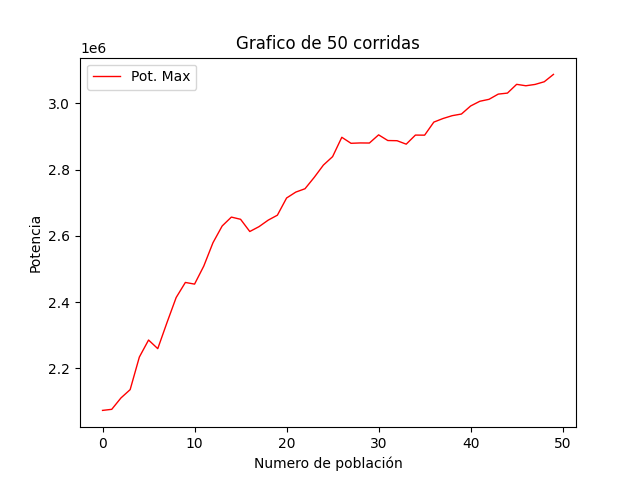
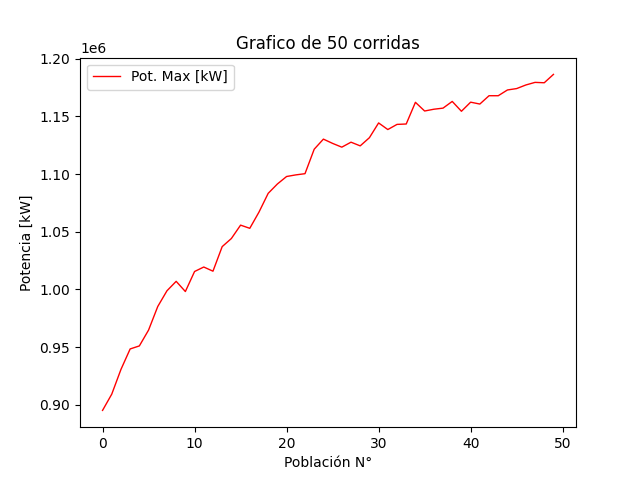
Modificaciones de parametros del AG

diff --git a/Trabajo Practico Integrador/Testeo.py b/Trabajo Practico Integrador/Testeo.py
@@ -41,11 +41,11 @@ for fila in arr:
 #-------Calculo del efecto estela-----
 a=0.3333
 radioAero=45
-distanciaCasillas=1
-coefDeArrastre= round(( 1 / (2 * math.log(80/0.05))),4)
+distanciaCasillas=5
+coefDeArrastre= round(( 1 / (2 * math.log(80/0.0025))),4)
 
-#print(( 1 - ( 2 * a / (1 + (coefDeArrastre * distanciaCasillas * 180) / radioAero )**2) ) )
-#print(25 * ( 1 - ( 2 * a / (1 + (coefDeArrastre * distanciaCasillas * 180) / radioAero )**2) ) )
+print(( 1 - ( 2 * a / (1 + (coefDeArrastre * distanciaCasillas * 180) / radioAero )**2) ) )
+print(8 * ( 1 - ( 2 * a / (1 + (coefDeArrastre * distanciaCasillas * 180) / radioAero )**2) ) )
 
 #-------Calculo del efecto estela-----
 def efectoEstela(velViento,distanciaCasillas):
@@ -87,15 +87,15 @@ cr2= Cromosoma()
 cr2.intancioAerogeneradores()
 cr2.calculoFuncObjetivo()
 
-cr1.datosParque()
-cr2.datosParque()
+#cr1.datosParque()
+#cr2.datosParque()
 
 hijo1=Cromosoma()
 hijo2=Cromosoma()
 
 #La posicion de corte se mide en horizontal
 posicionCorte=random.randint(0,Cromosoma.tCromo-1)
-print(f"Posicion de corte en indice N° {posicionCorte}")
+#print(f"Posicion de corte en indice N° {posicionCorte}")
 
 """ for fila in range(0,Cromosoma.tCromo):
     for col in range(0,posicionCorte):
@@ -117,8 +117,8 @@ for fila in range(posicionCorte,Cromosoma.tCromo):
 hijo1.calculoFuncObjetivo()
 hijo2.calculoFuncObjetivo()
 
-hijo1.datosParque()
-hijo2.datosParque()
+#hijo1.datosParque()
+#hijo2.datosParque()
 
 #EL UNICO PROBLEMA QUE QUEDA ACA ES QUE CUANDO SE APLICA, QUEDAN EN LA MAYORIA
 #SUPERANDO LOS 25 MOLINOS POR PARQUE
@@ -127,12 +127,13 @@ hijo2.datosParque()
 
 #-------Crossover-----
 
-hijo1.datosParque()
+""" hijo1.datosParque()
 hijo1.mutoGen()
 hijo1.calculoFuncObjetivo()
 hijo1.datosParque()
 
 hijo1.getAerogeneradores()
+hijo2.getAerogeneradores() """
 
 
 

diff --git a/Trabajo Practico Integrador/OperadoresGeneticos.py b/Trabajo Practico Integrador/OperadoresGeneticos.py
@@ -52,17 +52,15 @@ class CrossOverUnPunto():
             if(rnd.random() <= self.probCrossover):      
                 hijo1=Cromosoma()
                 hijo2=Cromosoma()
-                posicionCorte=rnd.randint(0,Cromosoma.tCromo-1)   
-                """ 
+                posicionCorte=rnd.randint(0,Cromosoma.tCromo-1)                  
                 #Tipo de Cruce por fila
                 for fila in range(0,posicionCorte):
                     hijo1.insertoGenes(padre._genes[fila],fila)
                     hijo2.insertoGenes(madre._genes[fila],fila)
                 for fila in range(posicionCorte,Cromosoma.tCromo):
                     hijo1.insertoGenes(madre._genes[fila],fila)
-                    hijo2.insertoGenes(padre._genes[fila],fila)
-                """                     
-                   
+                    hijo2.insertoGenes(padre._genes[fila],fila)                                  
+                """   
                 #Tipo de Cruce por fila y columna        
                 for fila in range(Cromosoma.tCromo):
                     for col in range(0,posicionCorte):
@@ -73,7 +71,7 @@ class CrossOverUnPunto():
                     for col in range(posicionCorte,Cromosoma.tCromo):
                         hijo1.insertoGen(madre._genes[fila][col],fila,col)
                         hijo2.insertoGen(padre._genes[fila][col],fila,col)   
-                      
+                """      
                 #Se guarda cada cromosoma en la nueva poblacion
                 nuevosCromosomas.append(hijo1)
                 nuevosCromosomas.append(hijo2)          

diff --git a/Trabajo Practico Integrador/Cromosoma.py b/Trabajo Practico Integrador/Cromosoma.py
@@ -59,15 +59,15 @@ class Cromosoma(object):
     def efectoEstela(self,velViento,distanciaCasillas):
         a=0.3333
         radioAero=45
-        coefDeArrastre= round(( 1 / (2 * math.log(80/0.05))),4) #Aproximadamente 0.0678
+        coefDeArrastre= round(( 1 / (2 * math.log(80/0.0025))),4) #Aproximadamente 0.0678
         return velViento * ( 1 - ( 2 * a / (1 + (coefDeArrastre * distanciaCasillas * Cromosoma.TamañoCelda) / radioAero )**2) ) 
 
     def calculoPotenciaAerogenerador(self,velViento):  
         #Cada indice de la lista contiene una lista donde el primer indice indica la velocidad del viento y el segundo la potencia asociada  
-        velocidadesViento=[[0, 0],[1, 0],[2, 0],[3, 10],[4, 46],[5, 170],[6, 355],[7, 580],[8, 874],[9, 1219],[10, 1544],[11, 1740],[12, 1789],[13, 1800],[14, 1800],[15, 1800],[16, 1800],[17, 1800],[18, 1800],[19, 1800],[20, 1800],[21, 1800],[22, 1800],[23, 1800],[24, 1800],[25, 1800],[26, 0]]
+        velocidadesViento=[[0, 0],[1, 0],[2, 0],[3, 10],[4, 46],[5, 170],[6, 355],[7, 580],[8, 874],[9, 1219],[10, 1544],[11, 1740],[12, 1789],[13, 1800],[14, 1800],[15, 1800],[16, 1800],[17, 1800],[18, 1800],[19, 1800],[20, 1800],[21, 1800],[22, 1800],[23, 1800],[24, 1800],[25, 1800],[26, 1800],[27, 0]]
         for i in range(len(velocidadesViento)-1):
             if velocidadesViento[i][0]<=velViento and velocidadesViento[i+1][0]>velViento:
-                self._funcObjetivo += velocidadesViento[i][1]
+                self._funcObjetivo += velocidadesViento[i+1][1]
                 break
     
     def getFuncObjetivo(self):

diff --git a/Trabajo Practico Integrador/Generacion.py b/Trabajo Practico Integrador/Generacion.py
@@ -42,8 +42,8 @@ class Generacion(object):
         plt.plot( arrMinimos, color='y', label='Minimos', linewidth=1,alpha=0.5)      
         # Se pone nombre a los ejes X e Y 
         plt.title(f"Grafico de {len(self._arrPoblaciones)} corridas")
-        plt.xlabel("Numero de población")
-        plt.ylabel("Valor")
+        plt.xlabel("Población N°")
+        plt.ylabel("Potencia [kW]")
         # Se agrega la leyenda para poder diferenciar cada color
         plt.legend()
         plt.savefig(f"./Salidas/Grafica Generacion N°{self._ID}")
@@ -51,11 +51,11 @@ class Generacion(object):
         #----------------Figura 1----------------
         #----------------Figura 2----------------
         plt.title(f"Grafico de {len(self._arrPoblaciones)} corridas")
-        plt.xlabel("Numero de población")
-        plt.ylabel("Potencia")
+        plt.xlabel("Población N°")
+        plt.ylabel("Potencia [kW]")
         # Se agrega la leyenda para poder diferenciar cada color
         #Grafico de las potencias
-        plt.plot(arrPotenciasMax, color='r', label='Pot. Max', linewidth=1)
+        plt.plot(arrPotenciasMax, color='r', label='Pot. Max [kW]', linewidth=1)
         plt.legend()
         plt.savefig(f"./Salidas/Grafica Potencia Generacion N°{self._ID}")
         plt.close()

diff --git a/Trabajo Practico Integrador/main.py b/Trabajo Practico Integrador/main.py
@@ -9,12 +9,12 @@ generaciones=[]
 #Parametros del Parque 
 Cromosoma.tCromo=10  #Sera una matriz de 10x10
 Cromosoma.CantAerogeneradores=25
-Cromosoma.VelocidadViento=25 #Velocidad del viento
-Cromosoma.TamañoCelda=180 #Distancia Minima de 4*R, donde R es 45 m
+Cromosoma.VelocidadViento=8 #Velocidad del viento [m/s]
+Cromosoma.TamañoCelda=180 #Distancia Minima de 4*R, donde R es 45 m [m]
 #Parametros de la Poblacion
 Poblacion.tPobla=50 #Cantidad de cromosomas x Poblacion
 Poblacion.tipoSeleccion=Ruleta()
-Poblacion.tipoCrossover=CrossOverUnPunto(0.9)
+Poblacion.tipoCrossover=CrossOverUnPunto(0.8)
 Poblacion.tipoMutacion=MutacionInvertida(0.05)
 Poblacion.elitismo=True
 
@@ -32,4 +32,5 @@ print("\n")
 for generacion in generaciones:
     generacion.datosGeneracion(wb)
     print("\n")
+
 
